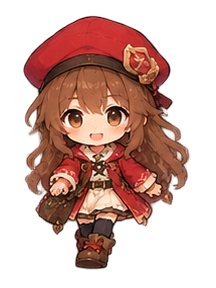
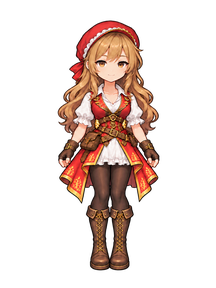
女性主人公・案内役を大人の絵に入れ替え、歩き方を調整
- 届いた人物11人の原本を design-parts/characters-adult/ に保管
- 歩き3枚からゲーム用のシートを作る tools/art/adult_walk_build.py を追加
  （足元と上半身の位置をそろえる。右向きは左向きの反転）
- 女性主人公（歩き・立ち止まり・選択画面）と案内役を新しい絵に
- 斜めに歩くときに正面と横の絵が細かく入れ替わらないよう、いまの向きを保つ
- スティックの8方向の境目に余裕を持たせる
- コマ送りを歩いた距離で決め、足がすべって見えないようにする
- 受け取り結果・素材の README・引き継ぎメモを更新

Claude-Session: https://claude.ai/code/session_01JiYMBKUEjwN6xQ4MUMQJLG

diff --git a/src/ui/screens/worldScreen.ts b/src/ui/screens/worldScreen.ts
@@ -84,10 +84,16 @@ const STICK_RADIUS = 42;
 const STICK_DEAD = 16;
 /** 歩行速度（論理px/秒・仮。実機で調整）。2026-10-22 に街を詰めたとき 185 から 1.25 倍に（ユーザー指示） */
 const WALK_PX = 231;
-/** 歩行のコマ送り（コマ/秒。素材の推奨は約7） */
-const WALK_FPS = 7;
-/** 歩くときの上下の弾み（人物の背たけに対する割合）。2コマ目・4コマ目で少し体が上がる */
+/**
+ * 1歩で進む距離（人物の背たけに対する割合）。コマ送りを時間ではなく進んだ距離で決め、足が地面をすべって見えないようにする
+ * （2026-10-23。それまでは 7コマ/秒で、1歩に背たけの約0.8倍進み、足がすべって見えた）。
+ * いまの歩く速さ・背たけ（街・部屋 81 論理px）では 1歩 約36 論理px＝約6.4歩/秒（約13コマ/秒）
+ */
+const STEP_PER_HEIGHT = 0.45;
+/** 歩くときの上下の弾み（人物の背たけに対する割合）。2コマ目・4コマ目（足がそろう「立つ」コマ）で少し体が上がる */
 const WALK_BOB = 0.03;
+/** スティックの向きを変えるまでの余裕（ラジアン）。8方向の境目（22.5度）を 8度こえるまで前の向きのまま */
+const STICK_HOLD = Math.PI / 8 + (8 * Math.PI) / 180;
 /** 宝箱の絵（ミスモンの正式素材）：閉じた絵と、開く動きの4コマ（4コマ目が開いたあとの絵） */
 const CHEST_ART: Readonly<Record<ChestObject['look'], { readonly closed: string; readonly opening: readonly string[] }>> = {
   wood: { closed: chestWood, opening: [chestWood1, chestWood2, chestWood3, chestWood4] },
@@ -113,13 +119,14 @@ const FRAME_H = 288;
 const FOOT_X = 108;
 const FOOT_Y = 270;
 const DIR_ROW: Readonly<Record<Direction, number>> = { down: 0, up: 1, left: 2, right: 3 };
-/** 待機の絵が歩行シートの何列目と同じか（案内役の待機は2コマ目と同じ絵） */
+/** 待機の絵が歩行シートの何列目と同じか（歩き4コマは「右足を前・立つ・左足を前・立つ」なので2列目） */
 const NPC_IDLE_COL = 1;
 
 /**
- * 主人公の絵：歩き4コマ＋立ち止まり1コマを1枚にまとめたシート（5列×4行。tools/art/walk_passing.py が作る）。
+ * 主人公の絵：歩き4コマ＋立ち止まり1コマを1枚にまとめたシート（5列×4行）。
  * 歩く・止まるで別の画像に切り替えると、iPhone で読み込み直しの間だけ人物が消えるので、1枚の中で位置だけ動かす。
- * 横向きの2・4コマ目は、届いた絵（4コマとも足を開いた形）から足を寄せて作った「足がそろう」コマ（描き直しが届くまでの応急処置）
+ * 女性：2026-10-23 の大人の絵（tools/art/adult_walk_build.py が作る。右足を前・立つ・左足を前・立つ・立ち止まり）。
+ * 男性：前の絵（tools/art/walk_passing.py。横向きの2・4コマ目は足を寄せて作った応急処置のコマ。大人の絵が届いたら作り直す）
  */
 const PLAYER_SHEET: Readonly<Record<'male' | 'female', string>> = { male: maleSheet, female: femaleSheet };
 const PLAYER_SHEET_COLS = 5;
@@ -136,9 +143,20 @@ const TILE_CLASS: Readonly<Record<string, string>> = {
 
 const coins = (n: number): string => t('common.coins', { n } satisfies Params);
 
-/** 向き → 1歩の向き（斜めの絵は無いので、斜めに歩くときは左右の絵） */
-const facing = (dx: number, dy: number, prev: Direction): Direction =>
-  dx > 0 ? 'right' : dx < 0 ? 'left' : dy > 0 ? 'down' : dy < 0 ? 'up' : prev;
+/**
+ * 1歩の向き → 人物の向き（斜めの絵は無い）。
+ * いまの向きの成分がある斜め（例：右を向いて右下へ）は向きを変えない。斜め45度あたりで正面と横の絵が細かく入れ替わらないように。
+ * それ以外の斜めは左右の絵
+ */
+const facing = (dx: number, dy: number, prev: Direction): Direction => {
+  if (dx === 0 && dy === 0) return prev;
+  const p = DIR_DELTA[prev];
+  if ((p.x !== 0 && p.x === dx) || (p.y !== 0 && p.y === dy)) return prev;
+  return dx > 0 ? 'right' : dx < 0 ? 'left' : dy > 0 ? 'down' : 'up';
+};
+
+/** 2つの角度の差（-π〜π） */
+const angleDiff = (a: number, b: number): number => Math.atan2(Math.sin(a - b), Math.cos(a - b));
 
 export const worldScreen: ScreenDefinition = {
   id: 'world',
@@ -176,8 +194,8 @@ class WorldView {
   #busy = false;
   #raf = 0;
   #last = 0;
-  /** 歩いている時間（コマ送り用）・最後に歩いていた時刻 */
-  #walkTime = 0;
+  /** 歩いた距離（論理px。コマ送り用）・最後に歩いていた時刻 */
+  #walkDist = 0;
   #lastMoving = 0;
   #playerLook = '';
   #destroyed = false;
@@ -562,7 +580,7 @@ class WorldView {
     this.#last = time;
     if (!this.#busy) this.#step(dt);
     if (this.#move) {
-      this.#walkTime += dt;
+      if (!this.#busy) this.#walkDist += WALK_PX * dt;
       this.#lastMoving = time;
     }
     this.#render(time);
@@ -662,14 +680,15 @@ class WorldView {
     const walking = this.#move !== null || time - this.#lastMoving < 90;
     const w = parseFloat(this.#player.style.width);
     const hgt = parseFloat(this.#player.style.height);
-    if (!walking) this.#walkTime = 0;
-    const col = walking ? Math.floor(this.#walkTime * WALK_FPS) % 4 : IDLE_COL;
+    if (!walking) this.#walkDist = 0;
+    // 半歩（1コマ）ごとに次のコマ。背たけが小さいダンジョンでは歩幅も小さく
+    const step = Math.floor(this.#walkDist / ((this.#figureH * STEP_PER_HEIGHT) / 2)) % 4;
+    const col = walking ? step : IDLE_COL;
     const look = `${this.#dir}:${col}`;
     if (look !== this.#playerLook) {
       this.#player.style.backgroundPosition = `${-col * w}px ${-DIR_ROW[this.#dir] * hgt}px`;
       this.#playerLook = look;
     }
-    const step = Math.floor(this.#walkTime * WALK_FPS) % 4;
     this.#placeFigure(this.#player, p, walking && step % 2 === 1 ? this.#figureH * WALK_BOB : 0);
     const { width, height } = mapSize(this.#map);
     const cell = this.#cell;
@@ -739,8 +758,11 @@ class WorldView {
       this.#held = null;
       return;
     }
-    // 8方向：45度ずつ
-    const sector = Math.round(Math.atan2(dy, dx) / (Math.PI / 4));
+    // 8方向：45度ずつ。境目のあたりで指がふるえても向きが行ったり来たりしないよう、少しこえるまで前の向きのまま
+    const angle = Math.atan2(dy, dx);
+    const held = this.#held;
+    if (held && Math.abs(angleDiff(angle, Math.atan2(held.y, held.x))) <= STICK_HOLD) return;
+    const sector = Math.round(angle / (Math.PI / 4));
     const a = (sector * Math.PI) / 4;
     this.#held = { x: Math.round(Math.cos(a)), y: Math.round(Math.sin(a)) };
   }

diff --git a/tools/art/adult_walk_build.py b/tools/art/adult_walk_build.py
@@ -1,0 +1,85 @@
+# -*- coding: utf-8 -*-
+"""大人の人物の歩く絵（2026-10-23 納品）を、ゲーム用のシートにする
+
+届く絵（1人につき3枚。docs/design/characters-adult-20261022/ の依頼どおり）:
+  {ID}_walk_front.png / {ID}_walk_back.png / {ID}_walk_left.png
+  1536×1024 に 512×1024 の枠が3つ。左から「立つ・右足を前・左足を前」。足元は枠の y≈940、背の高さ約860
+
+作るもの（1コマ 216×288、足元 (108, 270)、人物の高さ約250。行は 正面・背中・左・右）:
+  - 主人公：5列（右足を前・立つ・左足を前・立つ・立ち止まり）＝ 1080×1152
+  - NPC   ：4列（右足を前・立つ・左足を前・立つ）＝ 864×1152（2列目が待機の絵）
+  - 主人公の選択画面の立ち絵：正面の「立つ」1コマ（216×288）
+  右向きは左向きの左右反転。絵は描き直さない（縮小と位置合わせだけ）
+
+使い方:
+  python3 tools/art/adult_walk_build.py 届いた絵のフォルダ ID 出力.png [--npc] [--idle 立ち絵の出力.png]
+"""
+import sys
+
+import numpy as np
+from PIL import Image
+
+FW, FH = 216, 288
+FOOT_X, FOOT_Y = 108, 270
+FIGURE_H = 250          # ゲームのコマでの人物の高さ（いまの人物と同じ）
+SRC_W = 512             # 届いた絵の1ポーズの枠の幅
+SRC_FIGURE_H = 860      # 届いた絵の人物の高さ（依頼の枠どおり）
+K = FIGURE_H / SRC_FIGURE_H
+
+
+def body_shift(ref: np.ndarray, a: np.ndarray) -> int:
+    """a を横に何 px ずらすと、上半身（頭の下〜腰）が ref と一番重なるか。
+    足を出したポーズは体が枠の真ん中からずれて描かれていることがあり、そのままだと歩くたびに体が左右にぶれる"""
+    ys = np.nonzero(ref.any(axis=1))[0]
+    top, bottom = int(ys[0]), int(ys[-1])
+    band = slice(top + int((bottom - top) * 0.15), top + int((bottom - top) * 0.50))
+    r, m = ref[band], a[band]
+    best, best_dx = -1, 0
+    for dx in range(-80, 81, 2):
+        score = int((r & np.roll(m, dx, axis=1)).sum())
+        if score > best:
+            best, best_dx = score, dx
+    return best_dx
+
+
+def pose(sheet: Image.Image, i: int, ref: np.ndarray | None = None) -> Image.Image:
+    """i 番目のポーズを 216×288 のコマにする。足元（いちばん下の不透明な行）を y=270 に、
+    横は枠の真ん中を x=108 に（ref があれば、上半身が ref の立ち姿と重なるようにずらす）"""
+    src = sheet.crop((i * SRC_W, 0, (i + 1) * SRC_W, sheet.height))
+    a = np.array(src)[..., 3] > 40
+    ground = int(np.nonzero(a.any(axis=1))[0][-1])
+    dx = body_shift(ref, a) if ref is not None else 0
+    small = src.convert('RGBa').resize((round(src.width * K), round(src.height * K)), Image.LANCZOS).convert('RGBA')
+    out = Image.new('RGBA', (FW, FH), (0, 0, 0, 0))
+    out.alpha_composite(small, (round(FOOT_X - (SRC_W / 2 - dx) * K), round(FOOT_Y - ground * K)))
+    return out
+
+
+def alpha_of(sheet: Image.Image, i: int) -> np.ndarray:
+    return np.array(sheet.crop((i * SRC_W, 0, (i + 1) * SRC_W, sheet.height)))[..., 3] > 40
+
+
+def main() -> None:
+    args = sys.argv[1:]
+    npc = '--npc' in args
+    idle_out = args[args.index('--idle') + 1] if '--idle' in args else None
+    folder, cid, out_path = [a for a in args if not a.startswith('--') and a != idle_out][:3]
+    rows = []
+    for d in ('front', 'back', 'left'):
+        sheet = Image.open(f'{folder}/{cid}_walk_{d}.png').convert('RGBA')
+        ref = alpha_of(sheet, 0)
+        stand, right_fwd, left_fwd = pose(sheet, 0), pose(sheet, 1, ref), pose(sheet, 2, ref)
+        rows.append([right_fwd, stand, left_fwd, stand] + ([] if npc else [stand]))
+    rows.append([f.transpose(Image.FLIP_LEFT_RIGHT) for f in rows[2]])
+    cols = len(rows[0])
+    out = Image.new('RGBA', (FW * cols, FH * 4), (0, 0, 0, 0))
+    for r, frames in enumerate(rows):
+        for c, f in enumerate(frames):
+            out.alpha_composite(f, (c * FW, r * FH))
+    out.save(out_path, optimize=True)
+    if idle_out:
+        rows[0][1].save(idle_out, optimize=True)
+
+
+if __name__ == '__main__':
+    main()

diff --git a/docs/handoff.md b/docs/handoff.md
@@ -16,11 +16,11 @@
 | 街・部屋 | **2026-10-23 に大人向けの描き直し36枚が届き、作業ブランチ `claude/happy-bardeen-1jlos0` で全部入れ替えた（main には未反映・ユーザーの確認待ち）**。記録は `docs/design/adult-redesign-20261023/10_受け取り結果_UTF8.txt`。それまでの経緯：**正式な絵でゲームに統合済み**。部品（建物11・噴水・地面3・小物4・部屋の箱7・家具7＋草むら・小花・植え込み）を `tools/design/seimon_world_build.py` が設計図どおりに並べ、`assets/images/maps/` と `src/data/worldArt.generated.ts`（歩ける所・扉・家具の位置）を作る。部品の原本は 2026-10-22 から `design-parts/seimon-world/` に全部保管（草むら・小花・植え込みの3枚だけは街の絵から復元。中の README）。**2026-10-22 に街を詰めた**：設計図 4800→4032（建物の大きさはそのまま。家→大会会場 約11秒→約7秒）、歩く速さ 1.25 倍、欠片の置き直し、セーブ version 5（街にいたら家の前へ） |
 | デザインの方向 | **もう少し大人向けにする**（2026-10-23 ユーザー方針。いまの街などは小学生向けの見た目、という評価）。2026-10-23 にゲーム側でやったこと（main に反映・2026-10-23 に `7f0aa2b` を公開）：確認の窓をすべて「はい／いいえ」に、画面の色を濃い灰色＋くすんだ金に（紫・明るい黄色をやめた。`src/style.css` ほか）、ボタンの角を控えめに、タイトルを明朝体に、街・部屋・人物の絵に色の調整（`world.css` の `filter`：彩度 0.72）、ひらがなの多い言葉を漢字に（最初から／続きから・調べる など）。絵そのものの描き直しは依頼一式 `docs/design/adult-redesign-20261023/`（まず主人公の家1枚 → 比較 → 残り）。→ 2026-10-23 に描き直しが届き、街・部屋・家具の `filter` は外した（人物だけ残す。作業ブランチ） |
 | 登場人物の年齢 | **主人公（男性・女性）と案内役は20代前半、ほかの人は20代〜50代**（子ども・お年寄りは出さない。2026-10-22 ユーザー決定）。主人公の選択は「男性／女性」。描き直しの依頼一式は `docs/design/characters-adult-20261022/`（AIには設定画・正面の立ち姿・歩き3枚〔1枚に3ポーズ〕だけ頼み、右向きの反転・切り抜き・コマ並べは Claude） |
-| 主人公の歩行の絵 | 2026-10-22 に22歳版が届いたが使っていない（保留）：歩く絵の頭身・横向きの足がいまの絵とほぼ同じで、大人に見えないため（全身の立ち絵だけは大人の絵）。ゲームはいまの絵のまま |
+| 主人公の歩行の絵 | **2026-10-23 に大人の人物11人が届き、女性主人公と案内役を入れ替えた（作業ブランチ・ユーザー確認待ち）**。男性主人公は届いていない（前の絵のまま）。記録は `docs/design/characters-adult-20261022/10_受け取り結果_UTF8.txt`、原本は `design-parts/characters-adult/`、シートは `tools/art/adult_walk_build.py`。それまで：2026-10-22 に22歳版が届いたが使っていない（保留）：歩く絵の頭身・横向きの足がいまの絵とほぼ同じで、大人に見えないため（全身の立ち絵だけは大人の絵）。ゲームはいまの絵のまま |
 | 序盤イベント | 公開済み。案内役（となりの家の女性）の会話の絵6表情・歩行の絵は正式。名前は仮の「隣家の女性」のまま |
 | 直近の公開 | `7f0aa2b`（2026-10-23。ユーザーの「公開して」による）：大人向けの見た目（確認の窓をすべて「はい／いいえ」・ふつうのボタン・落ち着いた色・言葉づかい・街の絵の色調整）。**ユーザーの iPhone 確認 OK（2026-10-23）**。その前の公開は `d4ac1a2`（詰めた街＋ミスモン素材） |
 | ミスモン素材 | 2026-10-22（公開済み）：BGM 7曲（`src/ui/bgm.ts`。タイトル・街・大会の受付・大会の対戦・ダンジョン・対戦・ボス）、ダンジョンの対戦の背景（階ごと）と宝箱の絵・開く動き、大会の景品のアイコン、金貨。ボタン（青・赤の金枠）は 2026-10-23 にユーザー指示でやめ、ふつうのボタンに戻し、タイトルの「はじめから」の確認は「はい／いいえ」に（main に反映・2026-10-23 に `7f0aa2b` を公開）。モンスター・技・NPC・闘技場の背景などは**使わない**（ユーザー指示）。調査の一覧は `docs/mismon-reuse-candidates.md` |
-| 次の作業 | **①街・部屋の大人向けの絵（作業ブランチに反映済み）はユーザー確認 OK（2026-10-23。研究所の「水晶の台」の文・郵便受けなどの変化もそのままで問題なし）。「公開して」で main にマージして公開**。**②次便で人物の歩行の絵が届く → 組み込みと歩き方の調整（下の①②）**。以下はそれまでのメモ：頼んでいたデザインの納品が届くので、反映する（2026-10-23 ユーザー：新しいセッションで納品→反映）。届く可能性があるもの：①人物の描き直し（`docs/design/characters-adult-20261022/`。まず主人公（男性））、②街・部屋の大人向けの描き直し（`docs/design/adult-redesign-20261023/`。まず主人公の家1枚）、③それ以外（縦長の部屋・UI・ダンジョン・斜め歩き：`docs/design/genai-request-20261022/`）。どれも 8章「デザインが届いたときの組み込み方」の手順で、いまの絵と並べて比較画像を返し、ユーザーが決めてから使う。大人向けの絵が入ったら `world.css` の色調整の `filter`（彩度 0.72）を見直す。**歩きの絵を反映するときに、歩き方も調整する**（ユーザー指示 2026-10-23）：①斜め45度あたりで正面と横向きの絵が細かく入れ替わらないよう、向きをすぐには変えない②歩く速さ（231 論理px/秒・1.25倍にした）に足の動き（`WALK_FPS`=7）を合わせ、足がすべって見えないようにする。斜め向きの絵は任意・後回し（4方向をそろえるのが先）。**納品の反映が終わったら考えて提案する**（実装はユーザー承認後）：③会話で NPC の顔を出すか・出すならどんな絵か（いまは案内役だけ会話の絵6表情あり。ほかの NPC の会話の絵は `docs/design/quality-pass-20261022/` で別担当に依頼中）④バトル中に対戦相手の顔とセリフを出す（ユーザー希望。PS版『モンスターファーム バトルカード』を参考に、画面のどこに・いつ・どんな大きさで出すかとデザインの依頼文を考える）。**③④のユーザーの考え（2026-10-23）**：いまの案内役の会話の絵（胸から上・画面上 184×230 論理px）は大きすぎる。この大きさで対戦相手も作るとバトルに集中できない。→ 小さめの「顔の絵」の形を1つ決めて、会話でもバトルでも共通で使えるようにしたい（案内役の絵の作り直し・見せ方の変更も含めて検討）。いま別担当が作っている店員などの NPC の絵とは別の話 |
+| 次の作業 | **①街・部屋の大人向けの絵（作業ブランチに反映済み）はユーザー確認 OK（2026-10-23。研究所の「水晶の台」の文・郵便受けなどの変化もそのままで問題なし）。「公開して」で main にマージして公開**。**②女性主人公・案内役の大人の絵と歩き方の調整（2026-10-23・作業ブランチ）はユーザー確認待ち**：歩き方＝向きは「いまの向きの成分がある斜めなら変えない」＋スティックの境目に 8度の余裕（`facing`・`STICK_HOLD`）、コマ送りは時間でなく歩いた距離で（1歩＝背たけ×0.45＝約36 論理px。`STEP_PER_HEIGHT`。前は 7コマ/秒）。**③店員・研究員・受付・先生・住人A〜E の絵も届いている（未組み込み）**：立たせる場所・話す言葉・練習場の先生と案内役の立ち位置をユーザーに確認してから。男性主人公の大人の絵はまだ届いていない。**②次便で人物の歩行の絵が届く → 組み込みと歩き方の調整（下の①②）**。以下はそれまでのメモ：頼んでいたデザインの納品が届くので、反映する（2026-10-23 ユーザー：新しいセッションで納品→反映）。届く可能性があるもの：①人物の描き直し（`docs/design/characters-adult-20261022/`。まず主人公（男性））、②街・部屋の大人向けの描き直し（`docs/design/adult-redesign-20261023/`。まず主人公の家1枚）、③それ以外（縦長の部屋・UI・ダンジョン・斜め歩き：`docs/design/genai-request-20261022/`）。どれも 8章「デザインが届いたときの組み込み方」の手順で、いまの絵と並べて比較画像を返し、ユーザーが決めてから使う。大人向けの絵が入ったら `world.css` の色調整の `filter`（彩度 0.72）を見直す。**歩きの絵を反映するときに、歩き方も調整する**（ユーザー指示 2026-10-23）：①斜め45度あたりで正面と横向きの絵が細かく入れ替わらないよう、向きをすぐには変えない②歩く速さ（231 論理px/秒・1.25倍にした）に足の動き（`WALK_FPS`=7）を合わせ、足がすべって見えないようにする。斜め向きの絵は任意・後回し（4方向をそろえるのが先）。**納品の反映が終わったら考えて提案する**（実装はユーザー承認後）：③会話で NPC の顔を出すか・出すならどんな絵か（いまは案内役だけ会話の絵6表情あり。ほかの NPC の会話の絵は `docs/design/quality-pass-20261022/` で別担当に依頼中）④バトル中に対戦相手の顔とセリフを出す（ユーザー希望。PS版『モンスターファーム バトルカード』を参考に、画面のどこに・いつ・どんな大きさで出すかとデザインの依頼文を考える）。**③④のユーザーの考え（2026-10-23）**：いまの案内役の会話の絵（胸から上・画面上 184×230 論理px）は大きすぎる。この大きさで対戦相手も作るとバトルに集中できない。→ 小さめの「顔の絵」の形を1つ決めて、会話でもバトルでも共通で使えるようにしたい（案内役の絵の作り直し・見せ方の変更も含めて検討）。いま別担当が作っている店員などの NPC の絵とは別の話 |
 
 ## 2. これまでの作業（時系列・要点だけ）
 
@@ -89,6 +89,7 @@
    街灯は家と道の間に入らないので道の南側の芝生へ。欠片4つを新しい道の行き止まりへ。セーブ version 5（街にいたら家の前へ）
 23. 街・部屋の大人向けの絵（2026-10-23・作業ブランチ）：届いた36枚で `design-parts/seimon-world/` を置き換えて作り直し。ベッドと本棚がくっついた家具の絵に切り分けの線、
    小物・草むらは元の大きさにそろえる処理を `seimon_world_build.py` に足した。街・部屋の色の調整（`filter`）は外した
+24. 大人の人物（2026-10-23・作業ブランチ）：11人分が届き、女性主人公と案内役を入れ替え（`adult_walk_build.py`）。歩き方の調整（向きのちらつき・足のすべり）
 
 
 ## 3. 大事な約束（詳しくは CLAUDE.md）
@@ -180,7 +181,7 @@ npx vite preview --port 4173 --host 127.0.0.1   # 画面の確認（ビルド後
 - 正式カード待ちで未実装：防御の「0にする・はね返す・効果だけ消す・肩代わり」、全体カードを打ち消すカード、コンボ、派生モンスター（MAIN/SUB）の技、モンスターの特徴（地上・空中）
 - 新ルールでは1戦が長め（自動対戦で1〜2分）。テンポ調整はユーザーの判断待ち
 - 序盤イベントで仮のもの：となりの家の女性の正式な名前（「隣家の女性」）、正式な台詞（台本 V1 は仮）、練習相手のデッキ（スターターと同じ3体）
-- 応急処置（描き直しが届いたら外す）：主人公の横向き2・4コマ目は足を寄せて作ったコマ（`tools/art/walk_passing.py`）、男の子の背中の帽子の飾りを消した、
+- 応急処置（描き直しが届いたら外す）：男性主人公の横向き2・4コマ目は足を寄せて作ったコマ（`tools/art/walk_passing.py`。女性は 2026-10-23 に大人の絵へ）、男の子の背中の帽子の飾りを消した、
   会話の絵の左右の端をぼかしている（`dialogue.css` の `mask-image`）
 - 正式素材が無いもの：モンスター・技カードの絵、NPC（描き直しの依頼一式あり）・ダンジョンの床や壁・敵、大会の戦闘の背景（ミスモンの闘技場はユーザーが不使用と決定）。正式仕様が無いもの：カードデータ、価格・提供割合、大会、敵編成、隠しモンスター
 - ダンジョンから帰ると家に戻る（街の入口の前には戻らない）。対戦の途中でアプリを閉じると、その対戦は最初からやり直し

diff --git a/assets/README.md b/assets/README.md
@@ -36,10 +36,12 @@ import monsterUrl from '@assets/images/cards/monsters/monster_001.png';
 | --- | --- | --- |
 | `images/ui/skillcard/skillcard_master_v4.png` ほか | 技カードUIテンプレート V4（マスター・外枠マスク・マナ/ちから/かしこさのバー・数字1〜10） | ユーザー提供・**正式承認待ちの版**。マスターと外枠マスクは 972×1618 を 1/2 に縮小、数字は 128→64px に縮小（描き換えなし） |
 | `images/ui/button/btn_command_blank.png`・`btn_command_blank_wine.png` | コマンドボタン（金の枠・青地／ワインレッド地）。無地に場面ごとの文字を重ねて使う | ユーザー提供（2026-10-22）の「はい／いいえ」画像から切り出し、1/2 に縮小。「はい」の文字の部分を左右の色でつないで消した（「はい／いいえ」の文字入りは使わない：ユーザー指示）。ワインレッドは青地だけを塗り替えたもの（金の枠はそのまま） |
-| `images/characters/player_male_walk.png`・`player_female_walk.png` | 主人公の歩行（4方向×4コマ、1コマ 216×288、足元 108,270） | ユーザー提供・**正式**（2026-10-22）。男の子の背中の1・3コマ目と `player_male_idle_back.png` だけ、帽子の金の飾りが一部のコマにだけ見えてちらつくため、2コマ目（飾りなし）の同じ所の色で塗りつぶした（ユーザー指示 2026-10-22・応急処置。描き直し依頼は `docs/design/quality-pass-20261022/09_…`）。それ以外は加工なし |
-| `images/characters/player_{male,female}_idle_{front,back,left,right}.png` | 主人公の立ち止まり（4方向） | 同上（加工なし） |
-| `images/characters/player_{male,female}_sheet.png` | **ゲームで使う主人公の絵**（5列×4行：歩き4コマ＋立ち止まり）。上の歩行シートと立ち止まりの絵から `tools/art/walk_passing.py` が作る | 横向きの2・4コマ目だけ、足の部分を体の真ん中へ寄せて「足がそろう形」にした（届いた4コマが全部同じ足を開いた形で、足が動いて見えないため。描き直しが届くまでの応急処置。2026-10-22 ユーザー指示） |
-| `images/characters/npc_neighbor_guide_walk.png` | となりの家の女性（案内役）の歩行（4方向×4コマ、216×288）。待機の絵は2コマ目と同じ | ユーザー提供・**正式**（加工なし） |
+| `images/characters/player_male_walk.png` | 男性主人公の歩行（4方向×4コマ、1コマ 216×288、足元 108,270） | ユーザー提供・**正式**（2026-10-22）。男の子の背中の1・3コマ目と `player_male_idle_back.png` だけ、帽子の金の飾りが一部のコマにだけ見えてちらつくため、2コマ目（飾りなし）の同じ所の色で塗りつぶした（ユーザー指示 2026-10-22・応急処置。描き直し依頼は `docs/design/quality-pass-20261022/09_…`）。それ以外は加工なし |
+| `images/characters/player_male_idle_{front,back,left,right}.png` | 男性主人公の立ち止まり（4方向） | 同上（加工なし） |
+| `images/characters/player_female_idle_front.png` | 女性主人公の正面の立ち姿（主人公を選ぶ画面） | 2026-10-23 の大人の絵の正面「立つ」コマ（`tools/art/adult_walk_build.py --idle`） |
+| `images/characters/player_female_sheet.png` | **ゲームで使う女性主人公の絵**（5列×4行：右足を前・立つ・左足を前・立つ・立ち止まり） | 2026-10-23 納品の大人の絵（原本 `design-parts/characters-adult/`）から `tools/art/adult_walk_build.py` が作る。縮小・位置合わせ（足元と上半身）・右向きは左向きの反転だけ（描き換えなし） |
+| `images/characters/player_male_sheet.png` | **ゲームで使う男性主人公の絵**（5列×4行：歩き4コマ＋立ち止まり）。上の歩行シートと立ち止まりの絵から `tools/art/walk_passing.py` が作る | 横向きの2・4コマ目だけ、足の部分を体の真ん中へ寄せて「足がそろう形」にした（届いた4コマが全部同じ足を開いた形で、足が動いて見えないため。描き直しが届くまでの応急処置。2026-10-22 ユーザー指示） |
+| `images/characters/npc_neighbor_guide_walk.png` | となりの家の女性（案内役）の歩行（4方向×4コマ、216×288。右足を前・立つ・左足を前・立つ）。待機の絵は2コマ目 | 2026-10-23 納品の大人の絵から `tools/art/adult_walk_build.py --npc` が作る（描き換えなし） |
 | `images/characters/neighbor_guide_talk_{normal,smile,explain,surprised,worried,happy}.webp` | 案内役の会話の絵（胸から上・表情6種。困り顔 troubled は worried） | ユーザー提供・**正式**。原本 1122×1402 PNG を半分（561×701）に縮小して WebP にしただけ（描き換えなし） |
 | `images/maps/town/town_r{0-2}c{0-2}.webp` | 街の完成図（3×3 に分割） | ユーザー承認済みの部品（建物11・噴水・地面3・小物4）を `tools/design/seimon_world_build.py` が設計図どおりに並べたもの。4800 を 3600 に縮小。部品の絵は描き換えていない（縮小・切り抜き・ふちの整理・影） |
 | `images/maps/rooms/*.webp` | 7種類の部屋の箱と家具（1つずつ切り出し） | 同上（部屋の箱7・家具7） |
